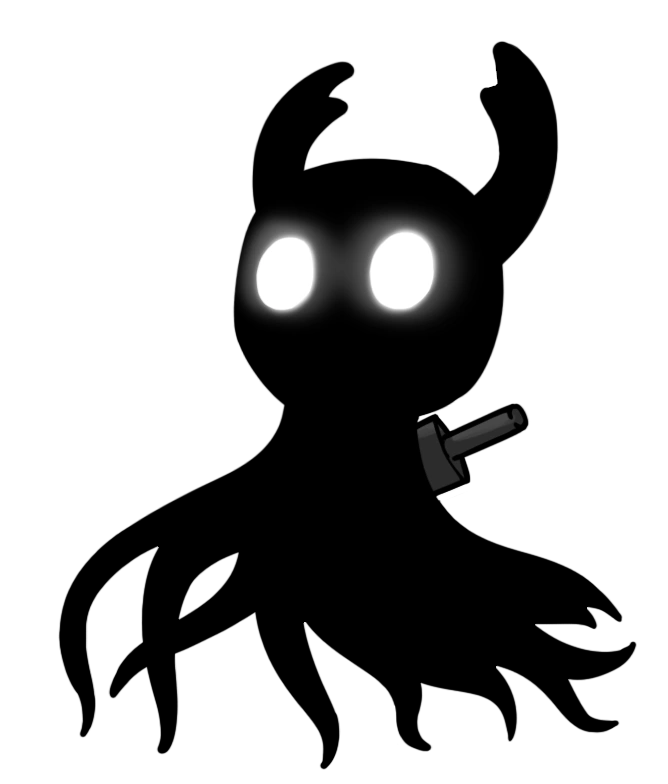
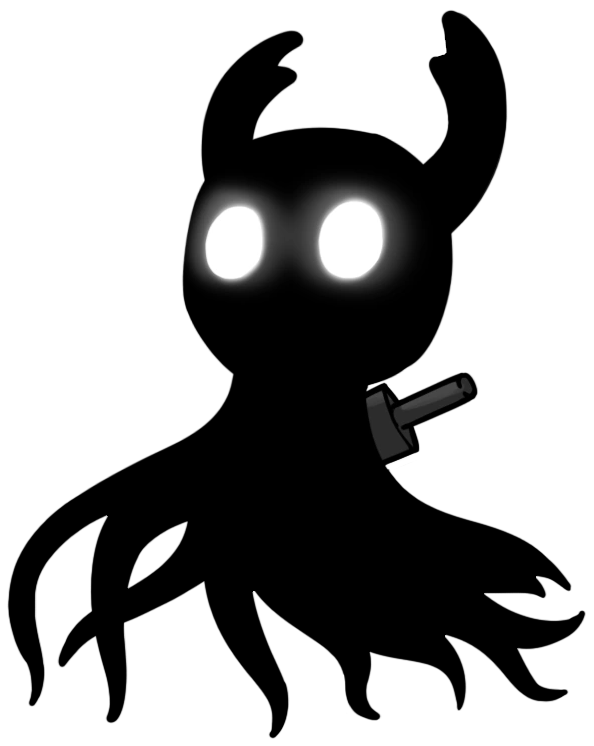
configuração da section

diff --git a/code/index.html b/code/index.html
@@ -29,21 +29,29 @@
 
         <nav class="navbar bg-secondary container d-flex justify-content-center align-items-center">
             <ul class="ul-nav my-2">
-                <li class="li-nav me-3"><a class="link-nav btn-text" href="">Anúncios</a></li>
-                <li class="li-nav me-3"><a class="link-nav btn-text" href="">Home</a></li>
+                <li class="li-nav me-4"><a class="link-nav btn-text" href="">Anúncios</a></li>
+                <li class="li-nav me-4"><a class="link-nav btn-text" href="">Home</a></li>
                 <li class="li-nav"><a class="link-nav btn-text" href="">Sobre nós</a></li>
             </ul>
         </nav>
     </header>
 
     <main class="container">
-        <section>
-            Lorem ipsum dolor sit amet consectetur adipisicing elit. Expedita, rem quaerat voluptate eveniet vel aperiam saepe dolor iste velit quibusdam. Animi quaerat aliquam aut molestiae nisi iusto officiis reiciendis excepturi!
+        <section class="d-grid d-grid-section my-4 align-items-center">
+            <div class="align-self-center">
+                <h1 class="h1-default color-white m-0">Enfrente as profundezas de um reino esquecido</h1>
+                <p class="p-display color-white mt-2 mb-3">Como o enigmático Cavaleiro, você atravessará as profundezas, desvendará seus mistérios e vencerá seus males.</p>
+                <button class="btn-default btn-text color-white"><i class="bi bi-steam icon me-1"></i> Baixe o jogo</button>
+            </div>
+
+            <div class="d-flex justify-content-center">
+                <img class="img-fluid" src="_images/The_Knight.png" height="520px" alt="">
+            </div>
         </section>
     </main>
 
-    <footer class="bg-secondary container d-grid align-items-center">
-        <p class="col-center text-center">Copyright © 2022, Todos os direitos reservados</p>
+    <footer class="bg-secondary container d-grid d-grid-footer align-items-center">
+        <p class="col-center text-center p-default color-white">Copyright © 2022, Todos os direitos reservados</p>
         <div class="d-flex justify-content-end">
             <ul class="ul-nav">
                 <li class="li-nav me-2"><a class="link-nav btn-text" href=""><i class="bi bi-youtube icon"></i></a></li>

diff --git a/code/_stylesheets/style.css b/code/_stylesheets/style.css
@@ -33,18 +33,23 @@ body{
 
 .link-nav{
     text-decoration: none;
-    
+}
+
+.btn-default{
+    background-color: var(--primary-30);
+    display: flex;
+    align-items: center;
+    justify-content: center;
+    border: none;
+    padding: 10px 20px;
+    border-radius: 4px;
 }
 
 .btn-text{
     color: var(--primary-100);
+    font: 500 var(--font-primary);
     text-transform: uppercase;
-}
-
-.accessibility-bar{
-    display: flex;
-    justify-content: end;
-    align-items: center;
+    letter-spacing: 0.8px;
 }
 
 .btn-accessibility{
@@ -55,4 +60,14 @@ body{
     display: flex;
     align-items: center;
     justify-content: center;
+}
+
+.accessibility-bar{
+    display: flex;
+    justify-content: end;
+    align-items: center;
+}
+
+.img-fluid{
+    max-height: 100%;
 }

diff --git a/code/_stylesheets/boxes.css b/code/_stylesheets/boxes.css
@@ -19,9 +19,12 @@
     } 
 }
 
+.m-0{
+    margin: 0px;
+}
 
-.me-3{
-    margin-right: 80px;
+.me-1{
+    margin-right: 10px;
 }
 
 .m-2{
@@ -33,6 +36,27 @@
     margin-bottom: 25px;
 }
 
+.mt-2{
+    margin-top: 25px;
+}
+
 .me-2{
     margin-right: 25px;
+}
+
+.mb-3{
+    margin-bottom: 30px;
+}
+
+.me-4{
+    margin-right: 60px;
+}
+
+.my-4{
+    margin-top: 60px;
+    margin-bottom: 60px;
+}
+
+.mt-4{
+    margin-top: 60px;
 }

diff --git a/code/_stylesheets/text.css b/code/_stylesheets/text.css
@@ -1,3 +1,22 @@
 .text-center{
     text-align: center;
 }
+
+.h1-default{
+    font: normal var(--font-primary);
+    font-size: 48px;
+    letter-spacing: -0.24px;
+    line-height: 69px;
+}
+
+.p-display{
+    font-family: var(--font-primary);
+    font-size: 24px;
+    font-weight: 300;
+    letter-spacing: 0.12px;
+}
+
+.p-default{
+    font-family: var(--font-primary);
+    font-size: 16px;
+}

diff --git a/code/_stylesheets/grid.css b/code/_stylesheets/grid.css
@@ -1,5 +1,5 @@
 @media (min-width: 992px) {
-    .d-grid{
+    .d-grid-footer{
         grid-template-columns: 1fr 3fr 1fr;
     }
 
@@ -14,6 +14,14 @@
     }    
 }
 
+.d-grid-section{
+    grid-template-columns: 1fr 1fr;
+}
+
 .d-grid{
     display: grid;
+}
+
+.align-items-center{
+    align-items: center;
 }
